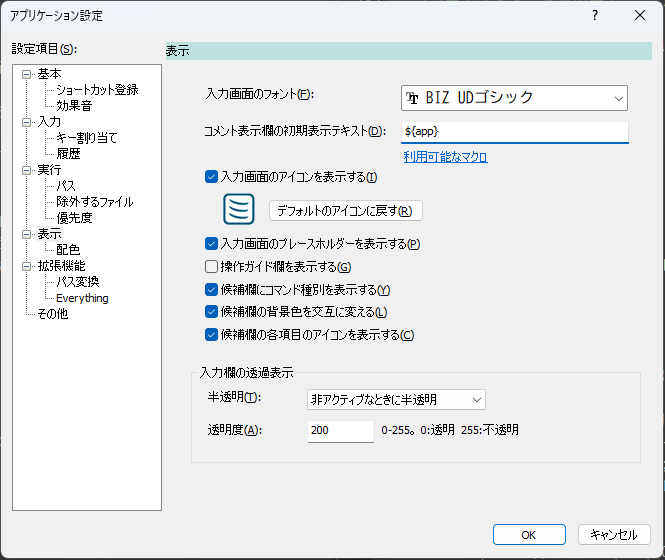
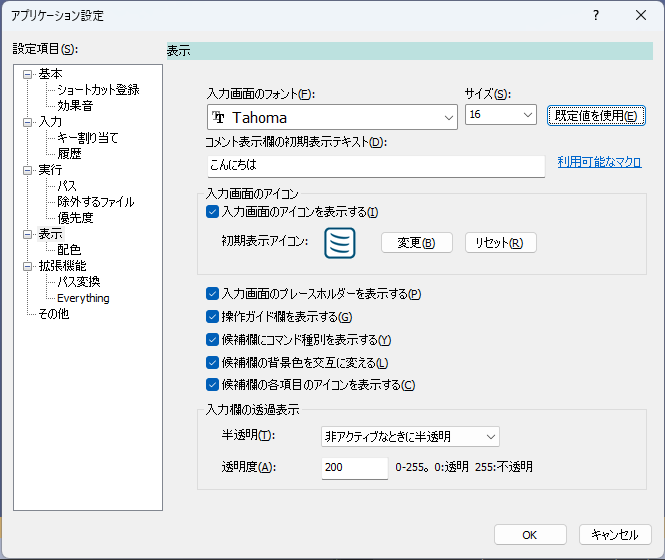
update doc

diff --git a/doc/help.md b/doc/help.md
@@ -493,6 +493,12 @@ bookが最も優先度が高いため、候補欄にはbookコマンドが先に
 - `入力画面のフォント`
   - 入力画面のフォントを指定する
   - 初期値は`Tahoma`フォント
+- `サイズ`
+  - 入力画面のフォントサイズをポイント単位で指定する
+  - 初期値は16
+  - 設定できる範囲は6～128
+- `既定値を使用`
+  - 入力画面のフォント/フォントサイズを初期値に戻す
 
 - `コメント表示欄の初期表示テキスト`
   - 入力画面を表示した直後のコメント欄のテキストを設定する
